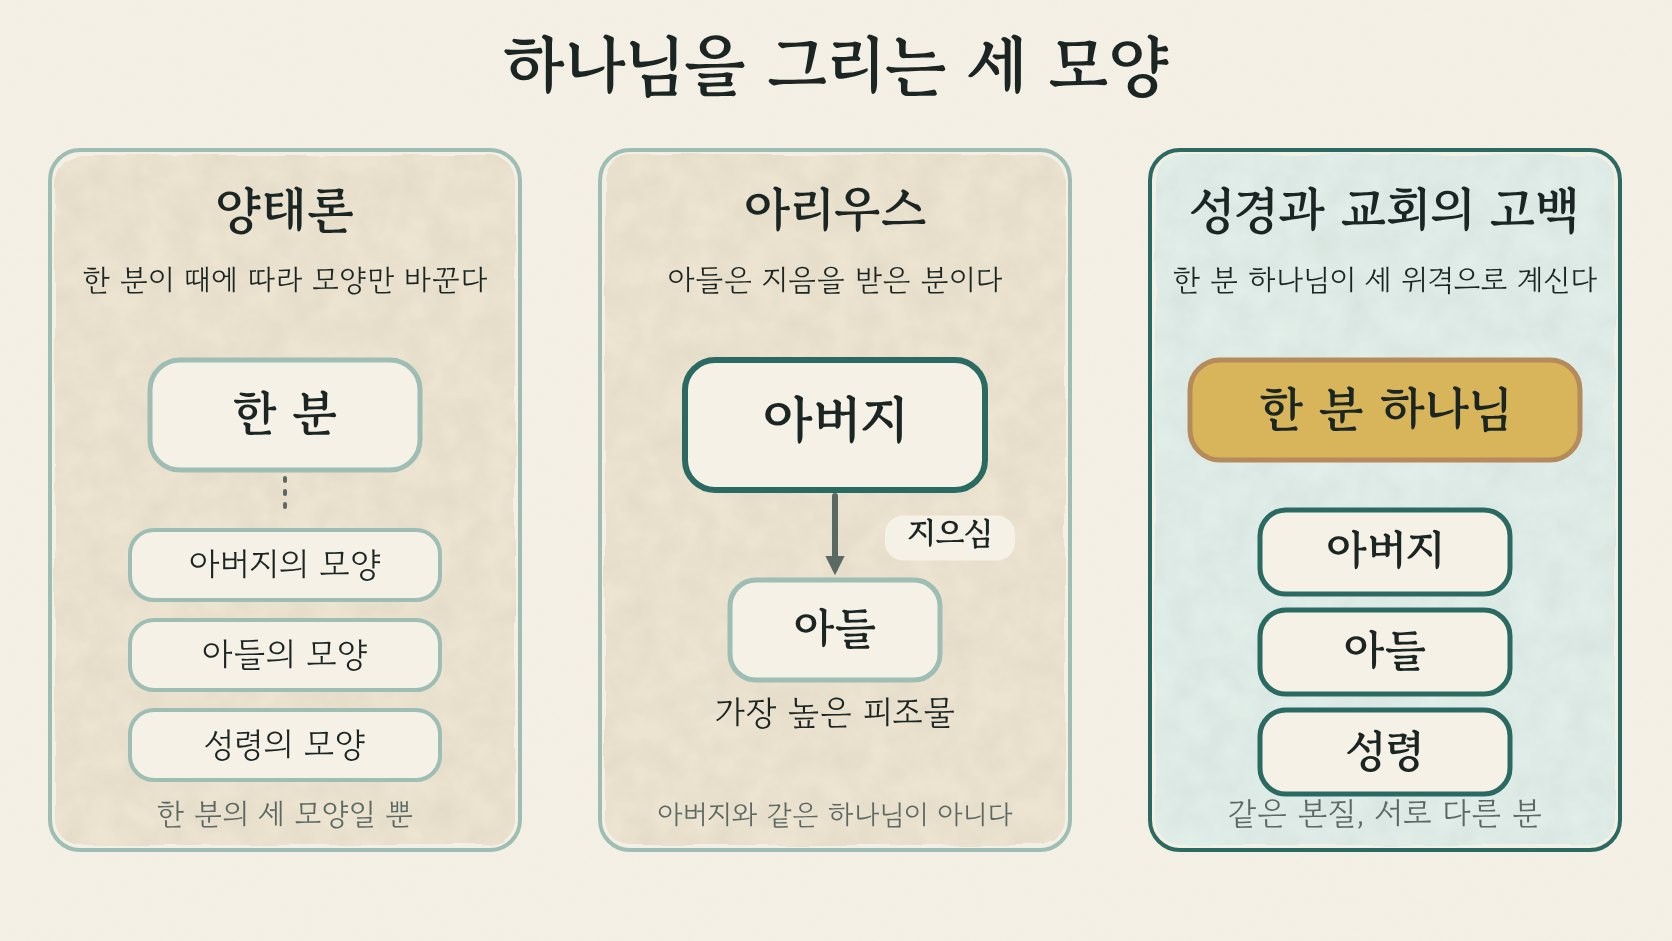
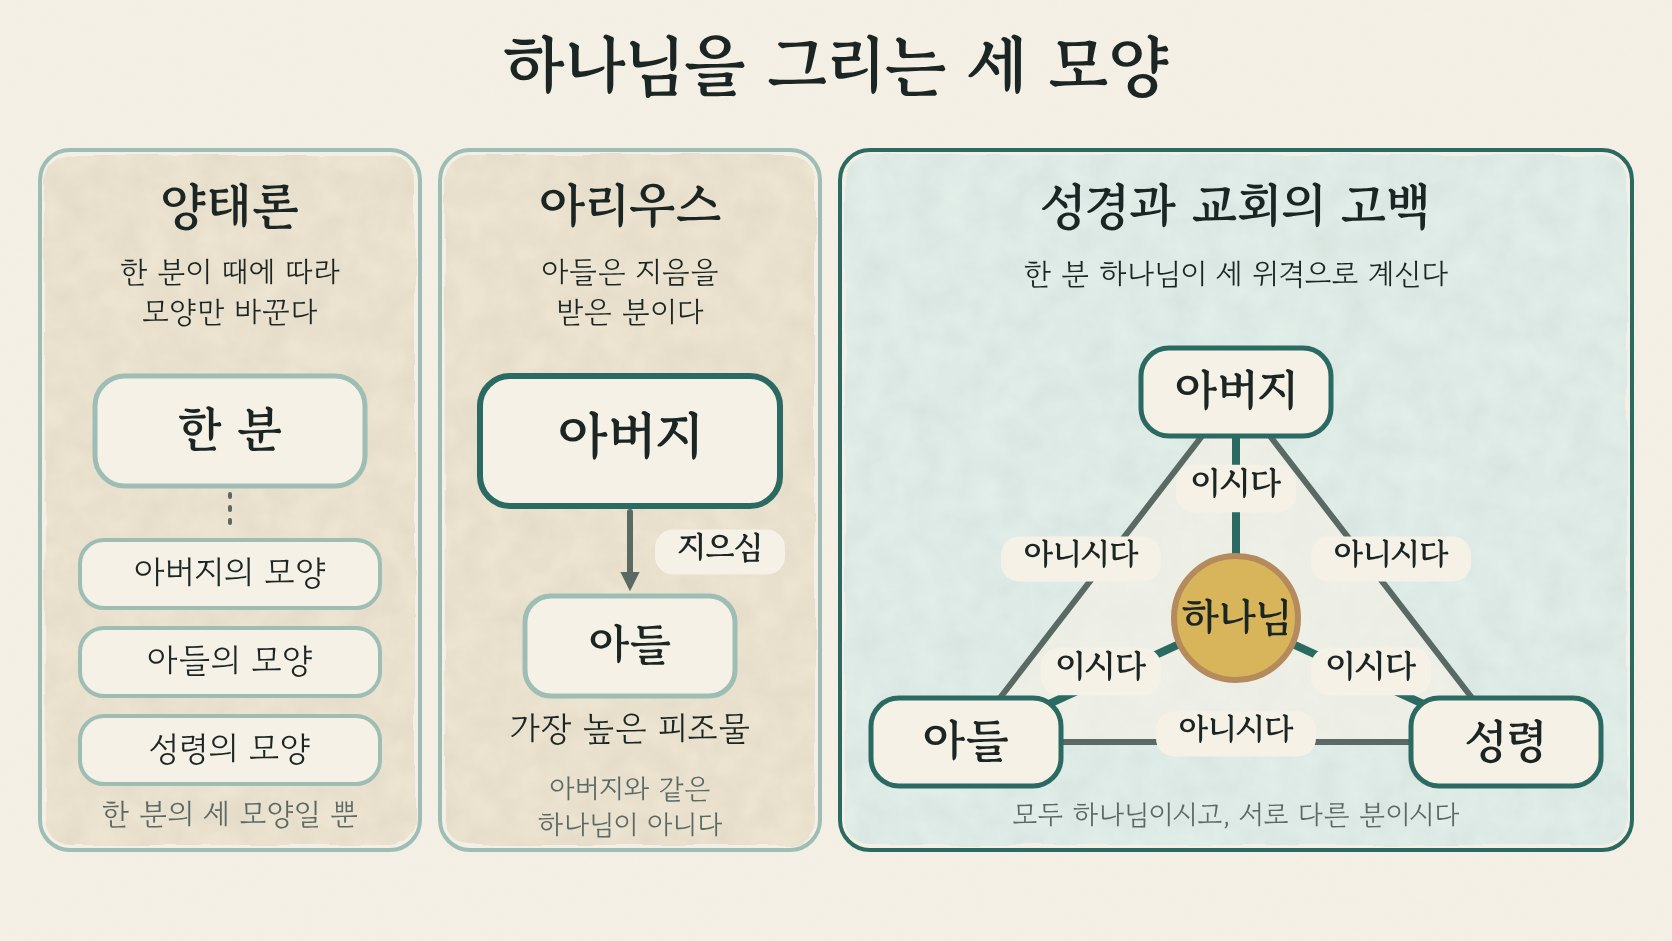
4과 도식 삼위일체 방패로 다시 그림 (gbs#750, 캐시 v251·cm-v154)
Claude-Session: https://claude.ai/code/session_0164q8wSDKuaCn8VvcXMghWd

diff --git a/app/sw.js b/app/sw.js
@@ -4,7 +4,7 @@
  * 아래 CACHE 번호는 남겨 둔 사본의 이름표다. 번호를 올리면 예전 사본을 지운다(AGENTS.md 서비스워커 캐시).
  * 데모에는 서버가 없다. 같은 주소의 파일만 다루고, 글꼴 같은 다른 주소의 요청은 건드리지 않는다.
  */
-const CACHE = 'didako-v250';
+const CACHE = 'didako-v251';
 const SHELL = ['./', 'index.html', 'config.js', 'sb.js', 'church-api.js', 'account-delete.js', 'family-tokens.css', 'family-ui.css', 'design-styles.css', 'church-survey.css', 'church-survey.js', 'church-survey-qr.js', 'info-tip.js', 'koinobia-logo.js', 'font-warm.js', 'family-tap.js', 'family-flow.js', 'covers.js', 'demo-data.js', 'book-prophets.js', '../community/book-trinity.js', '../community/book-family.js', '../community/book-jesus-walk.js', '../community/book-hebrew-eyes.js', '../community/book-second-temple.js', '../community/book-feasts.js', '../community/book-gospel.js', '../community/book-lords-prayer.js', '../community/book-creeds.js', '../community/book-church-path-1.js', '../community/book-church-path-2.js', '../community/book-church-path-3.js', '../community/book-church-path-4.js', '../community/book-church-path-5.js', '../community/book-heresy.js', '../note/places.js', '../note/splash.js', '../note/guide.js', '../note/guide.css', '../note/usage.js', 'practice.js', 'manifest.webmanifest', 'icons/icon-192.png', 'icons/icon-512.png', 'icons/icon-maskable-512.png', 'icons/apple-touch-icon.png', 'icons/favicon-32.png'];
 
 self.addEventListener('install', e => {

diff --git a/community/book-heresy.js b/community/book-heresy.js
@@ -667,8 +667,8 @@
                 "src": "hr04-three.jpg",
                 "w": 1672,
                 "h": 941,
-                "alt": "세 칸 도식. 왼쪽 양태론은 한 분이 때에 따라 모양만 바꾼다며 한 분 아래 아버지의 모양, 아들의 모양, 성령의 모양을 보여 주고, 가운데 아리우스는 아들이 지음을 받은 분이라고 적혀 있다. 오른쪽 성경과 교회의 고백은 한 분 하나님이 세 위격으로 계신다고 적혀 있다. 사람은 없다.",
-                "cap": "하나님을 그리는 세 모양",
+                "alt": "세 칸 도식. 왼쪽 양태론은 한 분이 때에 따라 모양만 바꾼다며 한 분 아래 아버지의 모양, 아들의 모양, 성령의 모양을 보여 주고, 가운데 아리우스는 아버지가 지으신 가장 높은 피조물인 아들을 보여 준다. 오른쪽 성경과 교회의 고백은 삼위일체 방패다. 삼각형 꼭짓점에 아버지, 아들, 성령이 있고 가운데 하나님과 이어진 선마다 이시다, 꼭짓점끼리 이은 변마다 아니시다라고 적혀 있다. 사람은 없다.",
+                "cap": "하나님을 그리는 세 모양(오른쪽은 삼위일체 방패)",
                 "after": 1
               }
             ]

diff --git a/community/sw.js b/community/sw.js
@@ -4,7 +4,7 @@
  * 아래 CACHE 번호는 남겨 둔 사본의 이름표다. 번호를 올리면 예전 사본을 지운다(AGENTS.md 서비스워커 캐시).
  * 같은 주소의 파일만 다룬다. 글꼴, Supabase 서버 같은 다른 주소의 요청은 건드리지 않는다.
  */
-const CACHE = 'didako-cm-v153';
+const CACHE = 'didako-cm-v154';
 const SHELL = ['./', 'index.html', 'config.js', 'family-tokens.css', 'family-ui.css', 'design-styles.css', 'info-tip.js', 'koinobia-logo.js', 'font-warm.js', 'family-tap.js', 'family-flow.js', 'account-delete.js', 'covers.js', 'demo-data.js', 'book-trinity.js', 'book-family.js', 'book-jesus-walk.js', 'book-hebrew-eyes.js', 'book-second-temple.js', 'book-feasts.js', 'book-gospel.js', 'book-lords-prayer.js', 'book-creeds.js', 'book-church-path-1.js', 'book-church-path-2.js', 'book-church-path-3.js', 'book-church-path-4.js', 'book-church-path-5.js', 'book-heresy.js', 'walks-books.js', 'sb.js', 'cm-api.js', '../note/places.js', '../note/splash.js', '../note/guide.js', '../note/guide.css', '../note/usage.js', 'practice.js', 'manifest.webmanifest', 'icons/icon-192.png', 'icons/icon-512.png', 'icons/icon-maskable-512.png', 'icons/apple-touch-icon.png', 'icons/favicon-32.png'];
 
 self.addEventListener('install', e => {
